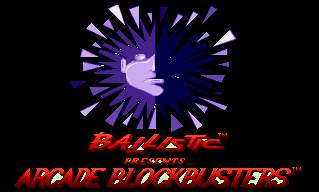
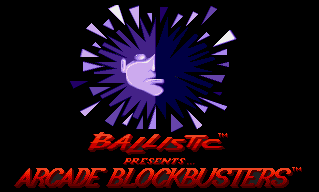
Added the second intro

diff --git a/Super Off Road/ModuleIntro.cpp b/Super Off Road/ModuleIntro.cpp
@@ -6,10 +6,19 @@
 ModuleIntro::ModuleIntro(bool start_enabled) : Module(start_enabled)
 {
 	Attach(App);
+
+	//First intro of the game
 	introRect.x = 0;
 	introRect.y = 0;
 	introRect.h = 192;
 	introRect.w = 320;
+
+	// Second itnroduction screen
+	intro2Rect.x = 0;
+	intro2Rect.y = 0;
+	intro2Rect.h = 199;
+	intro2Rect.w = 320;
+
 }
 
 ModuleIntro::~ModuleIntro()
@@ -21,6 +30,7 @@ bool ModuleIntro::Start()
 	LOG("Loading Intro");
 
 	graphics = App->textures->Load("Game/intro1.png");
+	graphics2 = App->textures->Load("Game/intro2.png");
 	//set up a timer to control how much does the intro lasts
 	
 	start = timer.now();
@@ -30,13 +40,24 @@ bool ModuleIntro::Start()
 
 update_status ModuleIntro::Update()
 {
-	App->renderer->Blit(graphics, 0, 0, &introRect, 3.0f);
-
+	if (currentIntroNumber == first) {
+		App->renderer->Blit(graphics, 0, 0, &introRect, 3.0f);
+	}
+	else {
+		App->renderer->Blit(graphics2, 0, 0, &intro2Rect, 3.0f);
+	}
+	
 	auto now = timer.now();
 	auto duration = now -  start;
 	auto d = std::chrono::duration_cast<std::chrono::seconds>(duration);
 	if (d.count() >=  3){
-		isIntroOver = true;
+		if (currentIntroNumber == first) {
+			currentIntroNumber = second;
+			start = timer.now();
+		}
+		else if (currentIntroNumber == second) {
+			isIntroOver = true;
+		}	
 	}
 	
 	if (isIntroOver == true) {
@@ -55,5 +76,20 @@ bool ModuleIntro::CleanUp()
 bool ModuleIntro::getIsIntroOver()
 {
 	return isIntroOver;
+}
+
+std::string ModuleIntro::getIntroNumber()
+{
+	switch (currentIntroNumber) {
+	case first:
+		return "first";
+		break;
+	case second:
+		return "second";
+		break;
+	default:
+		break;
+	}
+	return "first";
 }
 

diff --git a/Super Off Road/ModuleIntro.h b/Super Off Road/ModuleIntro.h
@@ -6,10 +6,13 @@
 #include "Subject.h"
 #include "ModuleTextures.h"
 #include <chrono>
+#include <string>
 
 class Application;
 
 struct SDL_Texture;
+
+enum NumOfIntro { first, second };
 
 class ModuleIntro  : public Module, public Subject
 {
@@ -21,13 +24,17 @@ public:
 	update_status Update();
 	bool CleanUp();
 	bool getIsIntroOver();
+	std::string getIntroNumber();
 
 private:
 	bool isIntroOver = false;
 	std::chrono::steady_clock timer;
 	std::chrono::steady_clock::time_point start;
 	SDL_Texture* graphics = nullptr;
+	SDL_Texture* graphics2 = nullptr;
 	SDL_Rect introRect;
+	SDL_Rect intro2Rect;
+	NumOfIntro currentIntroNumber = first;
 	
 
 };

diff --git a/Super Off Road/ModuleTrack.cpp b/Super Off Road/ModuleTrack.cpp
@@ -41,7 +41,8 @@ bool ModuleTrack::Start()
 
 update_status ModuleTrack::Update()
 {
-	App->renderer->Blit(graphics, 0, 0, &ground, 3.0f);
+	// The reason of the 4 on the h value is to give the screen the black bars both above and beneath the ground
+	App->renderer->Blit(graphics, 0, 4, &ground, 3.0f);
 	App->player->Update();
 	
 

diff --git a/Super Off Road/Globals.h b/Super Off Road/Globals.h
@@ -36,7 +36,7 @@ enum update_status
 
 // Configuration -----------
 #define SCREEN_WIDTH 320		
-#define SCREEN_HEIGHT 192
+#define SCREEN_HEIGHT 200
 #define SCREEN_SIZE 2
 #define FULLSCREEN false
 #define VSYNC true
